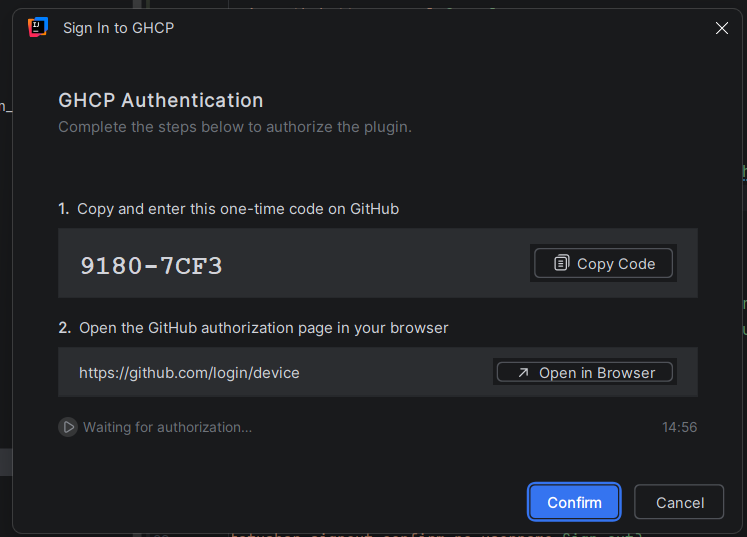
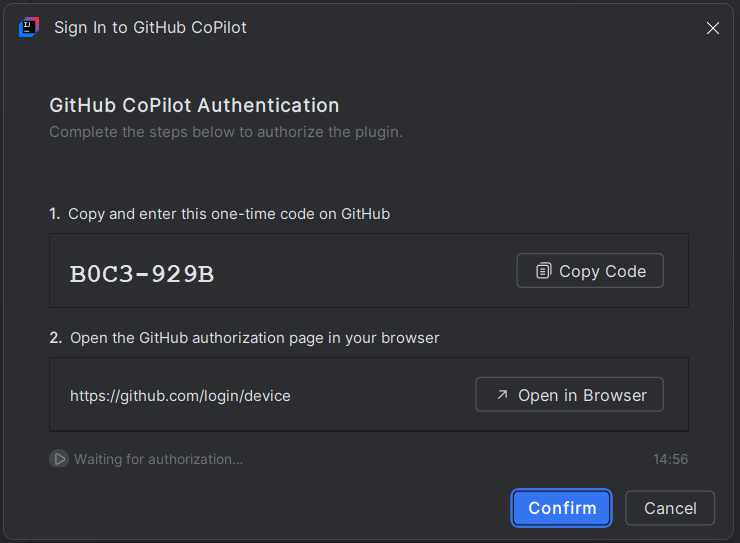
feat(settings): Add settings option to status bar menu
- Introduce a new "Settings…" action in the status bar context menu.
- Maintain existing functionality for refresh and sign in/out actions.

diff --git a/src/main/kotlin/com/github/jetbrains/plugins/github_copilot_premium_quota_monitor/statusbar/StatusBarWidget.kt b/src/main/kotlin/com/github/jetbrains/plugins/github_copilot_premium_quota_monitor/statusbar/StatusBarWidget.kt
@@ -8,6 +8,7 @@ import com.github.jetbrains.plugins.github_copilot_premium_quota_monitor.service
 import com.github.jetbrains.plugins.github_copilot_premium_quota_monitor.services.QuotaListener
 import com.github.jetbrains.plugins.github_copilot_premium_quota_monitor.services.QuotaNotifier
 import com.github.jetbrains.plugins.github_copilot_premium_quota_monitor.settings.PluginSettings
+import com.github.jetbrains.plugins.github_copilot_premium_quota_monitor.settings.PluginSettingsConfigurable
 import com.github.jetbrains.plugins.github_copilot_premium_quota_monitor.settings.SettingsChangeListener
 import com.github.jetbrains.plugins.github_copilot_premium_quota_monitor.settings.SettingsChangeNotifier
 import com.github.jetbrains.plugins.github_copilot_premium_quota_monitor.ui.DeviceAuthFlowDialog
@@ -15,7 +16,9 @@ import com.intellij.ide.DataManager
 import com.intellij.openapi.actionSystem.ActionGroup
 import com.intellij.openapi.actionSystem.AnAction
 import com.intellij.openapi.actionSystem.AnActionEvent
+import com.intellij.openapi.actionSystem.Separator
 import com.intellij.openapi.application.ApplicationManager
+import com.intellij.openapi.options.ShowSettingsUtil
 import com.intellij.openapi.project.Project
 import com.intellij.openapi.ui.Messages as UiMessages
 import com.intellij.openapi.ui.popup.JBPopupFactory
@@ -236,7 +239,12 @@ class CopilotQuotaStatusBarWidget(
 
 /**
  * Context menu shown on left-click.
- * Always shows Refresh; shows Sign in or Sign out based on authentication state.
+ *
+ * Order:
+ *   1. Settings…
+ *   2. Refresh
+ *   ─────────────
+ *   3. Sign in  /  Sign out
  */
 class CopilotQuotaPopupGroup(private val project: Project) : ActionGroup() {
 
@@ -246,7 +254,7 @@ class CopilotQuotaPopupGroup(private val project: Project) : ActionGroup() {
             SignOutAction()
         else
             SignInAction(project)
-        return arrayOf(RefreshAction(), signAction)
+        return arrayOf(OpenSettingsAction(project), RefreshAction(), Separator.getInstance(), signAction)
     }
 }
 
@@ -325,3 +333,15 @@ class SignOutAction : AnAction(
         }
     }
 }
+
+/** Opens the plugin settings panel (Settings → Tools → GitHub Copilot Premium Quota Monitor). */
+class OpenSettingsAction(private val project: Project) : AnAction(
+    Messages.get("statusbar_action_settings"),
+    null,
+    AllIcons.General.Settings,
+) {
+    override fun actionPerformed(e: AnActionEvent) {
+        ShowSettingsUtil.getInstance().showSettingsDialog(project, PluginSettingsConfigurable::class.java)
+    }
+}
+
